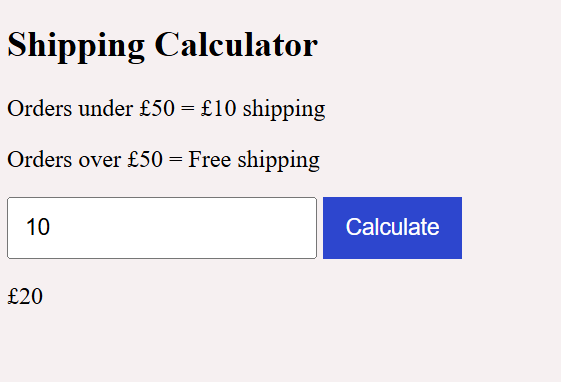
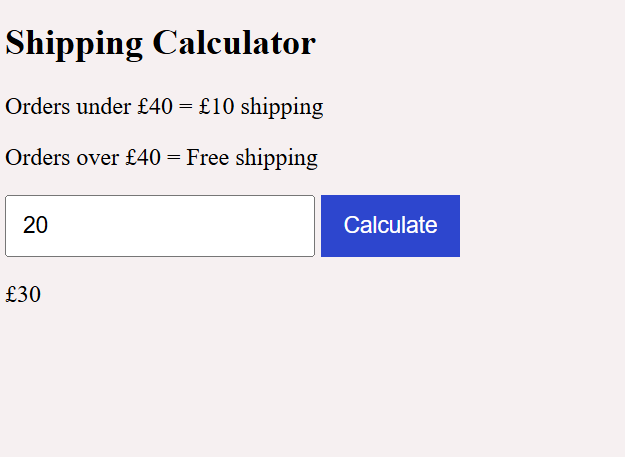
Fixed pricing mistake in HTML file, and changed live-website picture in ReadMe.md

Changed region(s): [[0.0, 0.2016, 0.8485, 0.6911], [0.0, 0.0576, 0.5758, 0.1728], [0.0, 0.7487, 0.0909, 0.8063]]

diff --git a/Shipping-Calculator.html b/Shipping-Calculator.html
@@ -10,9 +10,9 @@
 <body>
  <h2>Shipping Calculator</h2>
 
-<p> Orders under £50 = £10 shipping </p>
+<p> Orders under £40 = £10 shipping </p>
 
-<p> Orders over £50 = Free shipping </p>
+<p> Orders over £40 = Free shipping </p>
 
 
  <input  placeholder="Cost of order" type="text" class="js-cost-input  cost-input" onkeydown=" handleCostKeydown (event)"> 

diff --git a/ReadMe.md b/ReadMe.md
@@ -3,7 +3,7 @@
 <p>I created a web app to calculate the cost of shipping packages. If the order costs less than £40 you pay £10 for shipping and if the order costs over £40, shipping is free.</p>
 
 
-![An image of the live web app](live-website.png)
+![An image of the live web app:](live-website.png)
 
 The project contains ***HTML***, ***CSS***, ***JavaScript*** for some interactivity.
 
